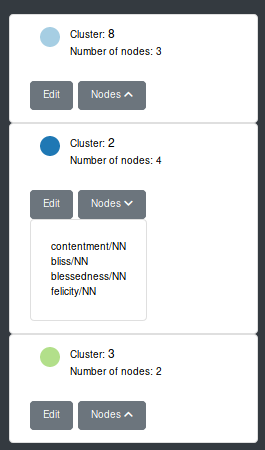
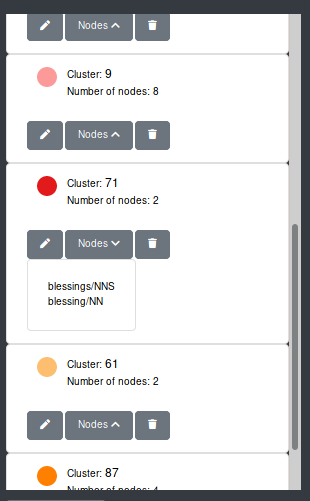
add chapter on the cluster editing functions

diff --git a/clusters.md b/clusters.md
@@ -1,11 +1,66 @@
-# Edit Clusters
-The clusters produced by the program can be edited and, if necessary, corrected. In the edit column all the clusters in the graph are listed. For each cluster there are two buttons: one to edit the cluster and another to display a list of all the nodes contained in the respective cluster.
+# Editing the Graph via the Functions of the Editing Sidebar
+
+The graph and the clusters produced by the program can be edited and, if necessary, corrected. The user can decide between two different dragging behaviours, as well as influence parameters of the force simulation, which is used to calculate the position of the nodes in the graph. In this section I will describe all the functionalities avaibable in the toggable editing sidebar. For more information on how to manipulate the graph directly, see [the section on interacting with the graph](interacting.md).
+
+[Choosing the Dragging Behaviour](#choosing-the-dragging-behaviour)
+[Manipulate the Simulation](#manipulate-the-simulation)
+[Editing the Clusters](#editing-the-clusters)
+[Edit Cluster Name](#edit-cluster-name)
+[Edit Cluster Colour](#edit-cluster-colour)
+[Add Cluster Node](#add-cluster-node)
+[Delete Cluster Node](#delete-cluster-node)
+[Delete Complete Cluster](#delete-complete-cluster)
+
+
+## Choosing the Dragging Behaviour
+
+![Dragging Behaviour Setting](./images/dragging_restart_sim.png)
+
+The user can select between two different kinds of dragging behaviour.
+
+1. **Enable brush (no force).** This enables to user to select multiple nodes at the same time using a brush movement and dragging all of them at the same time to a different position. The force is not acitve, so that the other nodes to not reposition themselves.
+2. **Use force (no brush available).** This is the default dragging behaviour. Only one node can be dragged at a time and the other nodes reposition themselves according to the force simulation. The dragged node is then fixed to its new position, which means that its position does not change if the force parameters are updated or other nodes dragged somewhere.
+
+All the nodes that are fixed to their position can be released by clicking on the button "Restart Simulation".
+
+For how to drag nodes in the graph, see [the section on interacting with the graph](interacting.md).
+
+[To the top](#editing-the-graph-via-the-functions-of-the-editing-sidebar)
+
+
+## Manipulate the Simulation
+
+![Default Simulation Settings](./images/default_simulation_settings.png)
+
+SCoT lets you edit two simulation parameters: the charge strength between the nodes and the link distance.
+The default value for the charge strength is -50, the default value for the link distance is 50.
+A graph with 100 nodes, 30 edges and these simulation parameter values looks like this:
+
+![Default Graph](./images/graph_for_intro.png)
+
+The use can change the value of the charge strength from values in the range of -200 to 100. Changing the charge strength influences the repelling forces between the nodes. The same graph with a charge strength of -100 and the default link distance looks as follows:
+
+![Graph Charge -100](./images/graph_charge-100.png)
+
+As a rule of thumb, a negative charge strength pushes the nodes further apart, simulating repulsion, and a positive charge strength pushes nodes together, simulating gravity or attraction.
+
+
+The link distance influences the distance between nodes and therefore the length of the edges between them. A high link distance means a long distance between nodes, a low link distance means a small distance between nodes. The following example shows and graph with a link distance of 150 and the default charge.
+
+![Graph Link Distance 360](./images/graph_linkdistance150.png) 
+
+[To the top](#editing-the-graph-via-the-functions-of-the-editing-sidebar)
+
+
+## Editing the Clusters
+
+In the edit column all the clusters in the graph are listed. For each cluster there are three buttons: one to edit the cluster and another to display a list of all the nodes contained in the respective cluster, and one to delete the cluster.
 
 ![Cluster List](./images/cluster_list.png)
 
 When hovering over the coloured circle next to the cluster name, all the nodes and edges in the graph belonging to the cluster are faded in in the graph.
 
-![Fade In Cluster](./images/show_cluster_in_graph.png)
+![Fade In Cluster](./images/show_cluster_in_graph2.png)
 
 
 In some cases, nodes are not connected to any other in the graph. They are only neighbours of the target word. Then, the nodes are not rendered in the graph, but they are listed under "Singletons" in the edit column.
@@ -14,16 +69,21 @@ In some cases, nodes are not connected to any other in the graph. They are only 
 
 
 ## Edit Cluster Name
+
 The program only numbers the clusters and it is up to the user to name the cluster. A cluster name can be changed via the edit button of a cluster.
 
 ![Edit Cluster Name](./images/edit_cluster_name.png)
 
-The user can enter the new name in the text input field "Cluster Name". The name of the cluster is automatically updated while typing.
+The user can enter the new name in the text input field "cluster name". The name of the cluster is automatically updated while typing.
+
+[To the top](#editing-the-graph-via-the-functions-of-the-editing-sidebar)
+
 
 ## Edit Cluster Colour
+
 The user can also select a different cluster colour by clicking on the colour field with the label "Select cluster colour" when editing a cluster. Then a colour picker opens and the user can select the new colour.
 
-![Choose Colour](./images/select_color.png)
+![Choose Colour](./images/change_color.png)
 
 Your colour picker may look different to the one in the image, since the appearance of the colour picker depends on your browser.
 
@@ -31,7 +91,11 @@ The colour of the circle next to the cluster name is directly updated. However, 
 
 The user can edit multiple clusters before clicking the "Apply" button to make the updated visible in the graph.
 
-## Add / Delete Cluster Node
+[To the top](#editing-the-graph-via-the-functions-of-the-editing-sidebar)
+
+
+## Add Cluster Node
+
 The user can also add a special node with the cluster name to the graph for each cluster - sort of like a label for a cluster. This node has edges to all the other nodes in the cluster.
 
 ![LABELED GRAPH](./images/graph_with_labels.png)
@@ -42,24 +106,24 @@ To add a new cluster label, the user ticks the box "Show cluster label in graph"
 
 For each cluster only one cluster node can be added.
 
-When reclustering the graph, the old labels are kept in the graph. Since the reclustering produced new clusters on the graph, the user can add new cluster labels. The old labels are kept, so that the clusters can be more easily compared. When hovering over a cluster node, all the nodes connected to it (i.e. all the nodes in the cluster) are faded in.
+When reclustering the graph, the old labels are kept in the graph. Since the reclustering produces new clusters on the graph, the user can add new cluster labels. The old labels are kept, so that the clusters can be more easily compared. When hovering over a cluster node, all the nodes connected to it (i.e. all the nodes in the cluster) are faded in.
 
 The same behaviour is displayed when updating the graph.
 
-Cluster labels can be deleted via selecting them (clicking on them) and then pressing `BACKSPACE`.
+[To the top](#editing-the-graph-via-the-functions-of-the-editing-sidebar)
 
-**Note of caution:** Currently, selected cluster nodes are always deleted when pressing `BACKSPACE`. This is not ideal and I am going to solve this. However, until I do, please make sure you have selected a non-cluster node when editing e.g. a cluster name. Otherwise, you might accidentally delete a cluster node.
 
-## Assign a Node to a Different Cluster
-In case the user does not agree with the system's hypothesis, they can assign a node to a different existing cluster.
-When clicking on a node, an "Options" button appears in the corner above the graph.
+## Delete Cluster Node
 
-![Options Button](./images/options.png)
+In case the user wants to get rid of the cluster node of a cluster, they have two possibilities. Both are explained in [the section on interacting with the graph](interacting.md).
 
-A click on this buttons opens a dropdown menu. Currently, the only option available is "Assign to different cluster". After selecting this option, a modal is opened, in which the selected node, its current cluster and an input field in which the user can enter the new cluster of the node.
+[To the top](#editing-the-graph-via-the-functions-of-the-editing-sidebar)
 
-![Change Cluster Assignment](./images/change_cluster_assignment.png)
 
-On clicking "OK", the node's colour changes to the one of the newly assigned cluster. It also changes the cluster in the cluster list.
+## Delete Complete Cluster
 
-If cluster labels are used, they do not automatically update, but have to be deleted manually and reentered with the updated clusters via the edit function of the respective cluster.
+Complete cluster can be deleted via the button with the trash icon. The user then has to confirm the deletion in a confirmation message. When the user confirms all the nodes and links of the cluster are deleted.
+
+![Confirm Cluster Deletion](./images/confirmation_cluster_deletion.png)
+
+[To the top](#editing-the-graph-via-the-functions-of-the-editing-sidebar)
